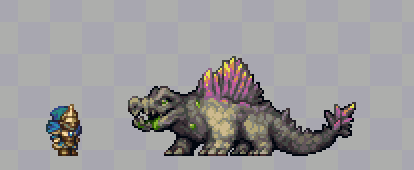
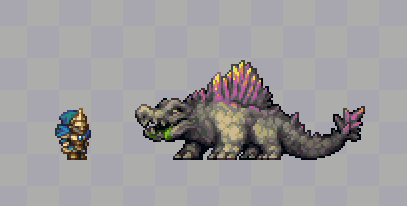
9/23

Changed region(s): [[0.2948, 0.2941, 0.914, 0.9412], [0.0885, 0.5294, 0.2359, 0.9412]]

diff --git a/Themed/Weapon_Rework/Weapon_Rework.md b/Themed/Weapon_Rework/Weapon_Rework.md
@@ -37,3 +37,11 @@
   ![alt text](text_magnomally.jpg)
 - 再之后可能着手星神之杀和耀界之光(9/21)
   ![alt text](text_exoWeapons.jpg)
+- AngelVA重做了利维坦海潮枪(9/23)
+  ![alt text](image_leviatitan.png)
+- ENNWAY重做了回春环刃(9/23)
+  ![alt text](image_terraDisk.png)
+- ENNWAY称他之后还会着手元素飞盘的重做(9/23)
+  ![alt text](text_elementalDisk.jpg)
+- AngelVA称以后可能将一些消耗性盗贼武器重做成非消耗的(9/23)
+  ![alt text](text_consumable.jpg)

diff --git a/Themed/Armor_Rework/Armor_Rework.md b/Themed/Armor_Rework/Armor_Rework.md
@@ -7,7 +7,7 @@
   ![alt text](text_auric_tesla2.jpg)
 
 ## 金源套
-![alt text](image_auric_tesla.png)
+![alt text](image_auricTesla.png)(9/23)
 ![alt text](text_auric_tesla.png)
 从左到右:法师,盗贼,召唤,战士,射手
 - 金源套会有自己的技能而非下位的组合(9/11)

diff --git a/Themed/Resprites/Resprites.md b/Themed/Resprites/Resprites.md
@@ -19,3 +19,5 @@
 ## 元素系列
 - Cristian Mihaii给元素系列武器的设计图(9/22)
   ![alt text](image_elemental.png)
+- Triangle为湮灭千星绘制的新贴图(9/23)
+  ![alt text](image_elementalBow.png)

diff --git a/Themed/Sulphur_Sea/Sulphur_Sea.md b/Themed/Sulphur_Sea/Sulphur_Sea.md
@@ -4,5 +4,5 @@
 ![alt text](image_sulfurSeaBackground.png)
 
 ## 生物
-- Triangle捣碎鳄(9/21)
+- Triangle捣碎鳄(9/23)
   ![alt text](imgae_trasher.png)
